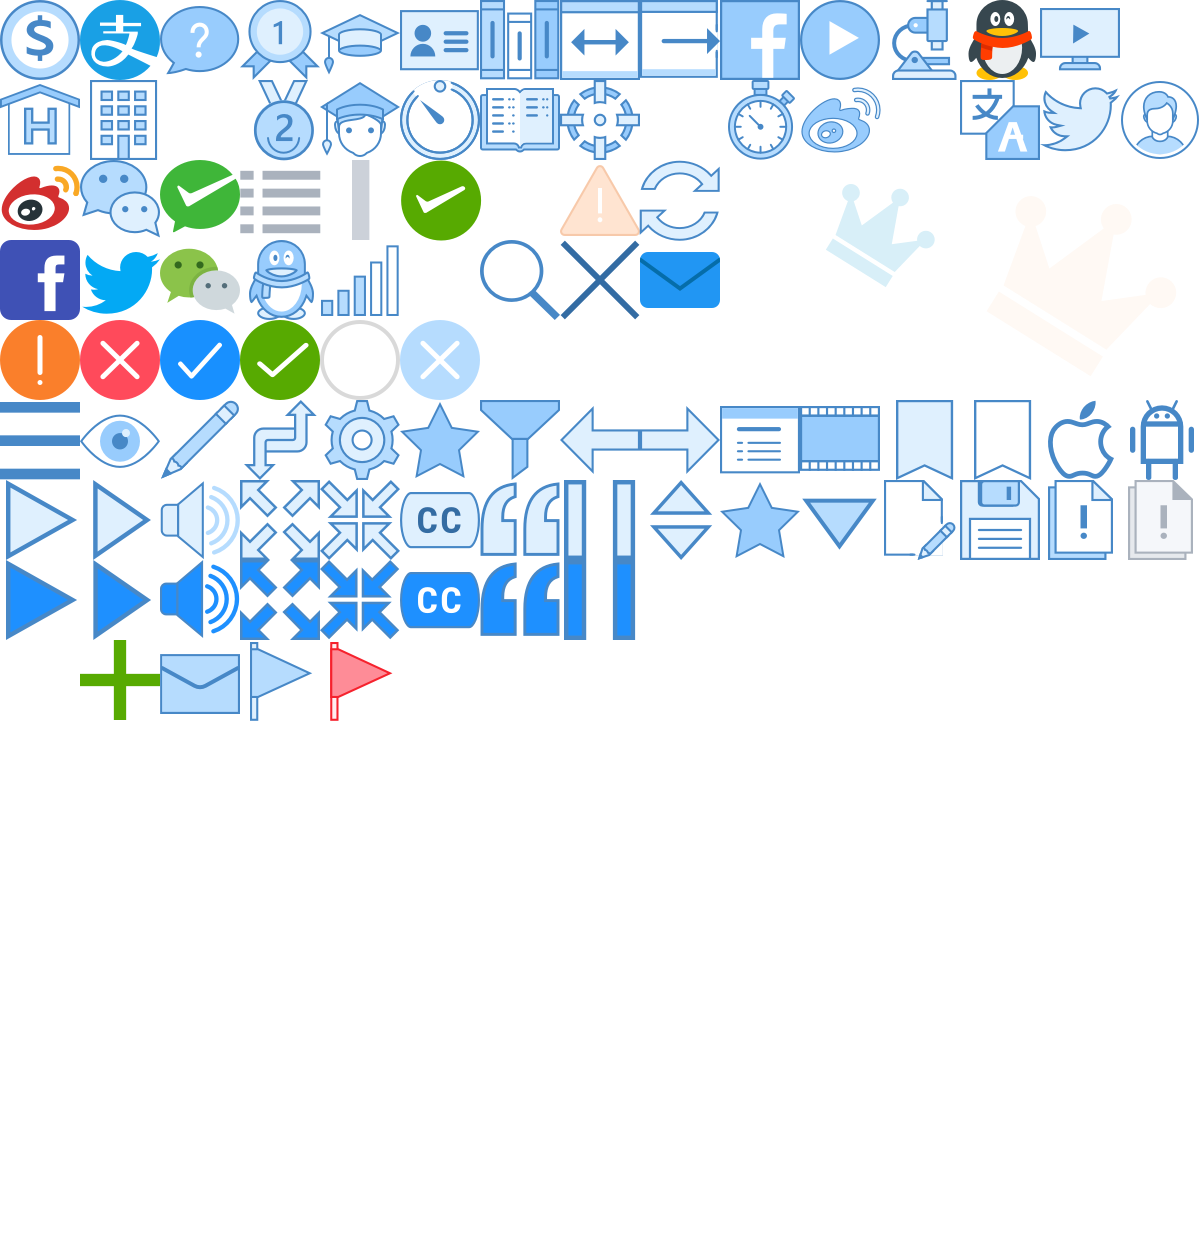
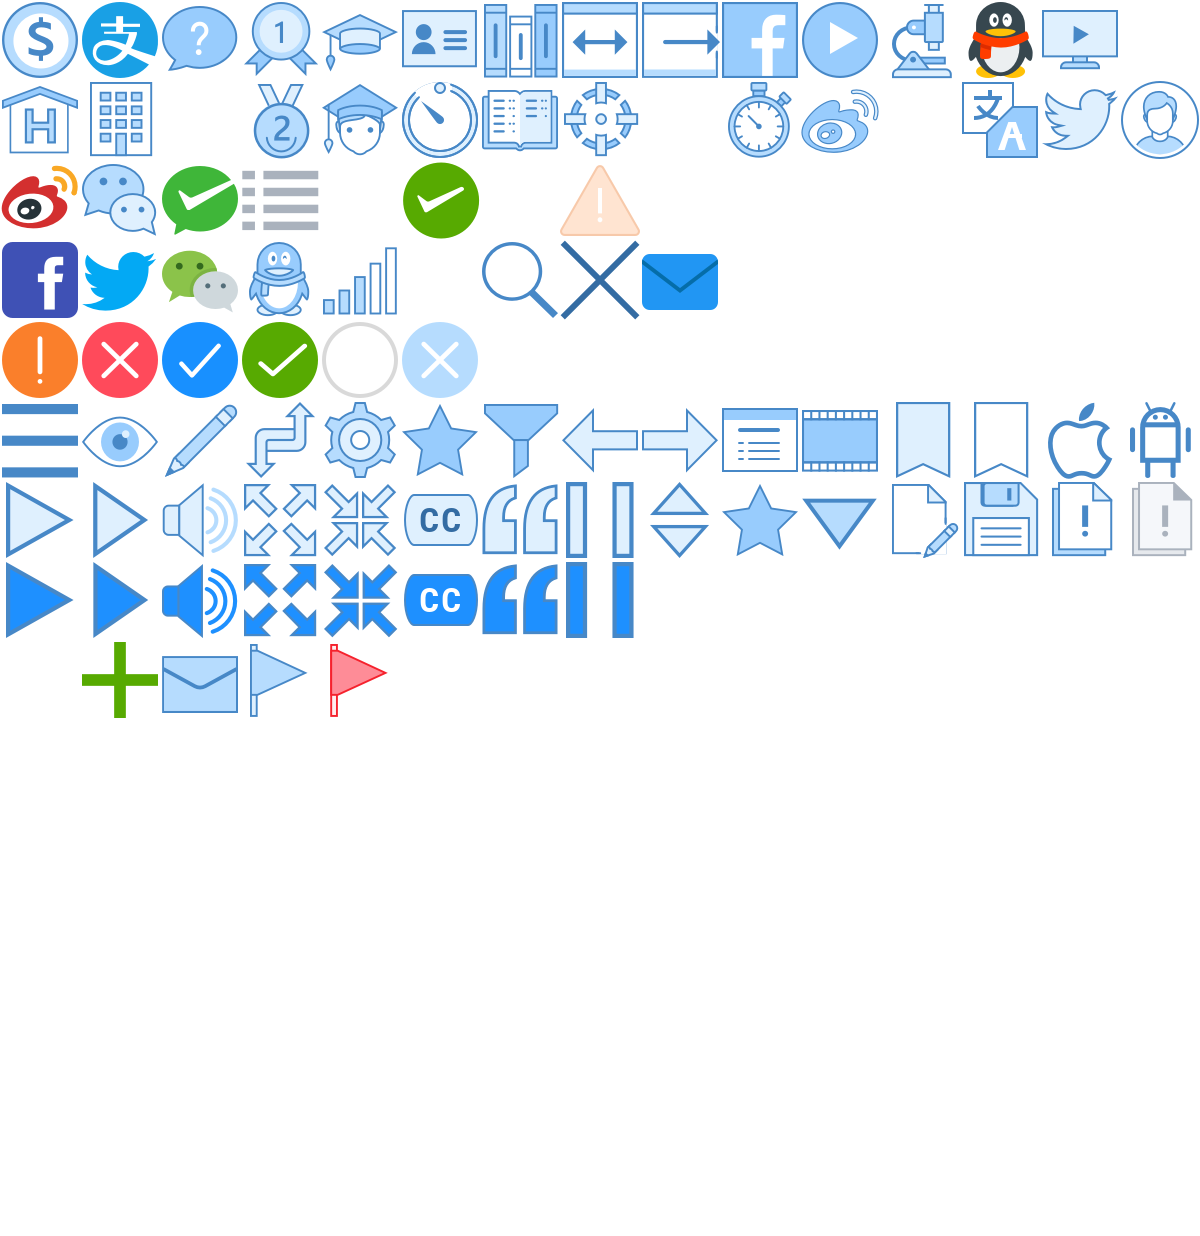
fix bug

diff --git a/themes/normal-theme/lms/static/sass/partials/lms/theme/course/_discussion.scss b/themes/normal-theme/lms/static/sass/partials/lms/theme/course/_discussion.scss
@@ -231,3 +231,45 @@
     border: none;
   }
 }
+
+// add a discussion
+.discussion-body .discussion-column .new-post-article{
+  margin-top: 0;
+  .forum-new-post-form{
+    padding: 30px 30px 50px;
+  }
+}
+.new-post-article .forum-new-post-form{
+  .post-field .post-topic.field-input{
+    height: 36px;
+    padding: 0 10px;
+    width: 100%;
+    border: 1px solid #e6e9ed!important;
+  }
+  .post-field .field-label{
+    width: 100%;
+    font-size: 14px;
+    .js-post-title{
+      width: 100%;
+      height: 36px;
+      border: 1px solid #e6e9ed;
+    }
+  }
+
+  .post-field .field-help#field_help_post_type{
+    margin: 5px 0;
+  }
+  .post-options .icon{
+    vertical-align: bottom;
+  }
+  .wmd-preview-label{
+    padding: 10px 10px 0;
+  }
+  .wmd-input{
+    border: 1px solid #e6e9ed;
+  }
+  .wmd-preview-container{
+    border: 1px solid #e6e9ed;
+    border-top: 0;
+  }
+} 

diff --git a/themes/normal-theme/lms/static/sass/partials/lms/theme/page/_base.scss b/themes/normal-theme/lms/static/sass/partials/lms/theme/page/_base.scss
@@ -28,16 +28,17 @@
     {
       max-width: 1220px;
       margin: 0 auto;
-      width: 100%;
+      width: 96%;
       box-sizing: border-box;
-      padding: 0 10px;
+      padding: 0;
+      margin: 0 auto;
     }
   }
 }
 .wrapper-preview-menu{
-  max-width: 1200px;
+  max-width: 1220px;
   margin: 0 auto;
-  width: 98%;
+  width: 96%;
   box-sizing: border-box;
 
 }
@@ -67,16 +68,16 @@ select{
 }
 
 // input
-input::-webkit-input-placeholder{
+input::-webkit-input-placeholder, .form-control::-webkit-input-placeholder{
   color:#ccd1d9;
 }
-input::-moz-placeholder{
+input::-moz-placeholder, .form-control::-moz-placeholder{
   color:#ccd1d9;
 }
-input:-moz-placeholder{
+input:-moz-placeholder, .form-control:-moz-placeholder{
   color:#ccd1d9;
 }
-input:-ms-input-placeholder{
+input:-ms-input-placeholder, .form-control:-ms-input-placeholder{
   color:#ccd1d9;
 }
 

diff --git a/themes/normal-theme/lms/templates/index_overlay.html b/themes/normal-theme/lms/templates/index_overlay.html
@@ -6,6 +6,6 @@ from openedx.core.djangolib.markup import HTML, Text
 %>
 
 ## Translators: 'Open edX' is a registered trademark, please keep this untranslated. See http://open.edx.org for more information.
-<h1>${_("学则变·变则进 —— 英荔商学院")}</h1>
+<h1>${_(u"Learn to Change · Change to Improve —— EliteMBA")}</h1>
 ## Translators: 'Open edX' is a registered trademark, please keep this untranslated. See http://open.edx.org for more information.
-<p>${_("价值数十万的MBA课程体系，最低月均99.9元全年畅学")}</p>
+<p>${_(u"Enjoy high-value MBA curriculum with ￥99.8 monthly payment!")}</p>

diff --git a/themes/normal-theme/lms/static/sass/partials/lms/theme/course/_about.scss b/themes/normal-theme/lms/static/sass/partials/lms/theme/course/_about.scss
@@ -1,11 +1,11 @@
 // http://0.0.0.0:18000/courses/course-v1:edX+E2E-101+course/about
 // 课程详情 about页
-
-.window-wrap .content-wrapper .container{
-  padding: 30px 0;
+.window-wrap .content-wrapper .course-info .container{
+  margin-top: 30px;
 }
 .course-info{ 
   /* 课程header */
+
   header.course-profile{
     height: auto;
     box-sizing: border-box;
@@ -181,6 +181,7 @@
         color: #fff;
         padding: 15px;
         line-height: 1.5;
+        text-align: center;
       }
       .qrcode-icon{
         position: absolute;

diff --git a/lms/static/js/student_account/components/StudentAccountDeletion.jsx b/lms/static/js/student_account/components/StudentAccountDeletion.jsx
@@ -51,7 +51,7 @@ export class StudentAccountDeletion extends React.Component {
     const socialAuthError = StringUtils.interpolate(
       gettext('Before proceeding, please {htmlStart}unlink all social media accounts{htmlEnd}.'),
       {
-        htmlStart: '<a href="https://support.edx.org/hc/en-us/articles/207206067" target="_blank">',
+        htmlStart: '<a onclick="$(&apos;#accounts-tab&apos;).click()">',
         htmlEnd: '</a>',
       },
     );

diff --git a/themes/normal-theme/lms/static/sass/partials/lms/theme/page/_iconfont.scss b/themes/normal-theme/lms/static/sass/partials/lms/theme/page/_iconfont.scss
@@ -44,6 +44,8 @@ $icon-width: 18px;
 .fa-filter:before,
 .fa-newspaper-o:before,
 .course-content .bookmark-button::before,
+.fa-floppy-o:before,
+.fa-save:before
 {
   content: '';
   display: inline-block;
@@ -218,6 +220,10 @@ $icon-width: 18px;
   position: relative;
   top: 4px;
   transform: scale(0.95);
+}
+.fa-floppy-o:before,
+.fa-save:before{
+  background-position: calcP(13, 7)
 }
 
 

diff --git a/themes/normal-theme/lms/static/sass/partials/lms/theme/page/_home.scss b/themes/normal-theme/lms/static/sass/partials/lms/theme/page/_home.scss
@@ -156,6 +156,7 @@
       padding: 15px 10px;
 
       .course-search{
+        padding: 0;
         .search-button{
           width: 50px;
         }
@@ -171,6 +172,7 @@
         }
         p{
           font-size: 14px;
+          line-height: 1.8;
         }
       } 
     }

diff --git a/themes/normal-theme/lms/static/sass/partials/lms/theme/course/_test.scss b/themes/normal-theme/lms/static/sass/partials/lms/theme/course/_test.scss
@@ -36,6 +36,7 @@
 .xmodule_display.xmodule_SequenceModule {
   .sequence-nav .sequence-list-wrapper{
     overflow-y: hidden;
+    overflow-x: hidden;
 
     ol li{
       border: 0;

diff --git a/themes/normal-theme/lms/static/sass/partials/lms/theme/course/_course.scss b/themes/normal-theme/lms/static/sass/partials/lms/theme/course/_course.scss
@@ -3,6 +3,7 @@
   max-width: 1200px;
   margin: 0 auto;
   overflow-x:hidden !important;
+  width: 96%;
 
   .nav-item .nav-link{
     padding: 20px 15px 20px 10px;
